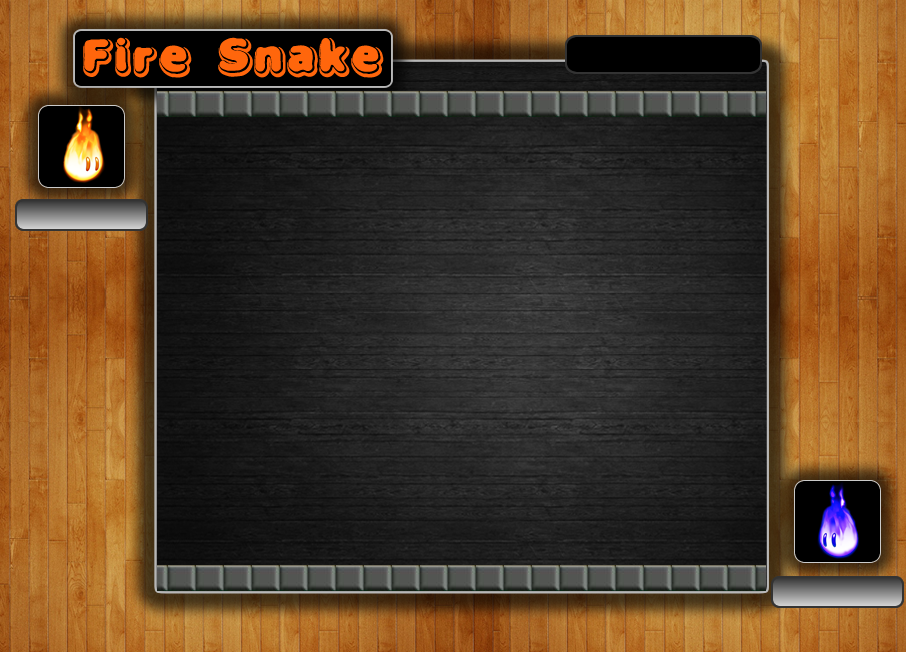
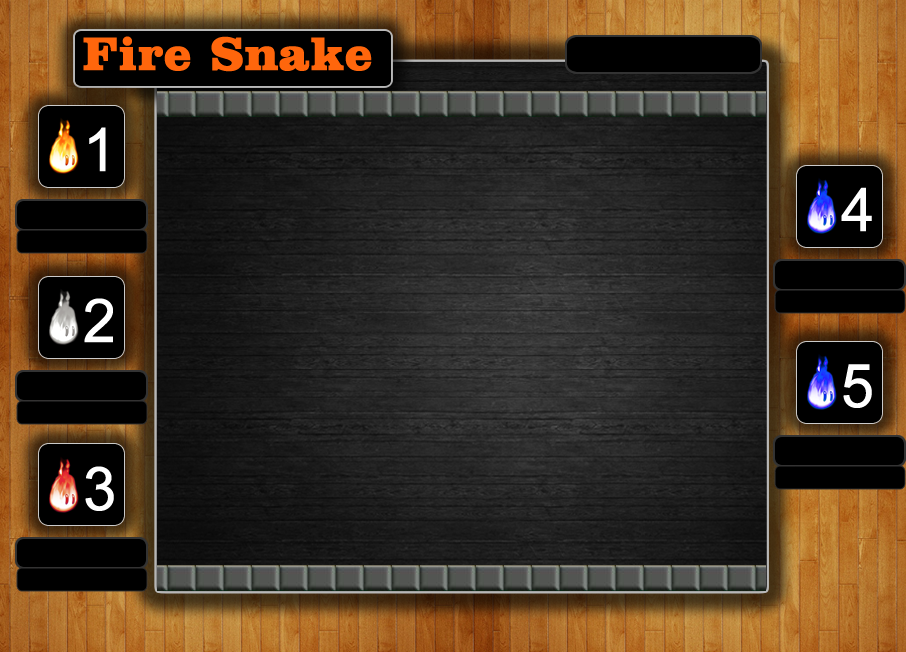
score engine

diff --git a/game/classes/app/Score.js b/game/classes/app/Score.js
@@ -22,19 +22,36 @@ Snake.Score = function(config){
         
         $.ajax({
             type: "POST",
-            url: "game/scripts/saveScore.php",
-            data: { name: player_name, score: score }
+            url: "game/scripts/scoreEngine.php",
+            data: { method : "save", name: player_name, score: score }
         }).done(function( msg ) {
             $( "#hscore" ).dialog( "close" );
             me.resetScore();
+            me.main.moveSnake.initSnake();
+            me.setHighScores();
         }); 
         
         $( "#hscore" ).dialog( "close" );
     }
     
    this.updateScore = function(){
-         console.info(me.xScore);
         score = (score) + (50 * me.xScore);
+        $(".scorePopup").text("+" + (me.xScore*50)); 
+        
+        //score animation
+        $(".boxScorePopup").show();
+        $(".boxScorePopup").animate({
+           opacity: 0.4,
+           top : "250px"
+         }, 300,
+           function() {
+                $(".boxScorePopup").hide().css({
+                    opacity : 0.8,
+                    top : "300px"
+                });
+             } 
+         );        
+        
         var showScore = String(score);
         var cntScore = showScore.length;
         var loopZeros = 7 - cntScore;
@@ -56,7 +73,68 @@ Snake.Score = function(config){
         me.ctx.font = 'italic bold 30px Lemon';
         me.ctx.clearRect(550, 40, 300,40);
         me.ctx.fillText("0000000", 590, 65); 
-    }    
+    }
+
+    this.getScore = function(){
+        return score;
+    }
+    
+    this.setHighScores = function(){
+        $.ajax({
+            type: "POST",
+            url: "game/scripts/scoreEngine.php",
+            data: { method : "get" }
+        }).done(function( scores ) {
+            
+            var sc = scores.split("|");
+            
+            me.ctx.fillStyle = '#FFF';
+            for(var v=0; v<sc.length; v++){
+                var data = sc[v].split("-");
+                me.ctx.font = 'italic bold 25px arial'; 
+                
+                switch(v){
+                    case 0 : me.ctx.clearRect(0, 185, 180,40);
+                             me.ctx.fillText("0" + data[1], 40, 225);
+                             me.ctx.font = 'italic bold 16px arial'; 
+                             me.ctx.clearRect(0, 225, 180,40);
+                             me.ctx.fillText(data[0], 40, 249);
+                        break;
+
+                    case 1 : me.ctx.clearRect(0, 370, 180,40);
+                             me.ctx.fillText("0" + data[1], 40, 395);
+                             me.ctx.font = 'italic bold 16px arial'; 
+                             me.ctx.clearRect(0, 395, 180,40);
+                             me.ctx.fillText(data[0], 40, 419);
+                        break;
+
+                    case 2 : me.ctx.clearRect(0, 540, 180,40);
+                             me.ctx.fillText("0" + data[1], 40, 562);
+                             me.ctx.font = 'italic bold 16px arial'; 
+                             me.ctx.clearRect(0, 570, 180,40);
+                             me.ctx.fillText(data[0], 40, 587);
+                        break;
+
+                    case 3 : me.ctx.clearRect(760, 260, 180,40);
+                             me.ctx.fillText("0" + data[1], 794, 285);
+                             me.ctx.font = 'italic bold 16px arial'; 
+                             me.ctx.clearRect(760, 290, 180,40);
+                             me.ctx.fillText(data[0], 794, 307);
+                        break;
+                        
+                    case 4 : me.ctx.clearRect(760, 440, 180,40);
+                             me.ctx.fillText("0" + data[1], 794, 460);
+                             me.ctx.font = 'italic bold 16px arial'; 
+                             me.ctx.clearRect(760, 470, 180,40);
+                             me.ctx.fillText(data[0], 794, 485);
+                        break;
+                }
+            }
+            
+                         
+            
+        });        
+    }
     
     this.init();
 }

diff --git a/game/classes/app/MainApplication.js b/game/classes/app/MainApplication.js
@@ -3,6 +3,7 @@ if(typeof(Snake)=="undefined"){var Snake = {} };
 Snake.MainApplication = function(config){
     
     var me = this;
+    var splash = true;
     this.ctx = null;
     this.paused = true;
     this.moveSnake = null;
@@ -39,7 +40,19 @@ Snake.MainApplication = function(config){
         
         $("#save_button").on("click",function(){
             me.Score.saveScore();
-        })
+        });
+        
+        $("#player_name").on("keyup",function(e){
+            if(e.keyCode==13){
+                me.Score.saveScore();
+            }
+        });        
+        
+        var splash = new Image();
+        splash.src = "game/media/images/backgrounds/initbg.png";
+        splash.onload = function(){
+            me.ctx.drawImage(splash, 195, 170); //path and pos x, y
+        }        
         
         me.gameScore();
         
@@ -47,10 +60,13 @@ Snake.MainApplication = function(config){
     
     this.restartApp = function(){
         console.info("restart app");
-        
         setTimeout(function(){
-            me.moveSnake.initSnake();
-            me.Score.openScorePopup();
+            if(parseInt(me.Score.getScore()) > 12000){
+                me.Score.openScorePopup();
+            }else{
+                me.Score.resetScore();
+                me.moveSnake.initSnake();                
+            }
         },500);
         
     }
@@ -74,7 +90,9 @@ Snake.MainApplication = function(config){
                  break;   
                  
              case 13 :
-                 me.gamePause();
+                 if(!$( "#hscore" ).dialog( "isOpen" )){
+                    me.gamePause();
+                 }
                  break;                  
          }
      }  
@@ -83,8 +101,15 @@ Snake.MainApplication = function(config){
         me.ctx.fillStyle = '#FFF';
         me.ctx.font = 'italic bold 30px Lemon';
         me.ctx.fillText('0000000', 610, 65); 
+        
+        me.Score.setHighScores();
+        
+        //refresh scores
+        setInterval(function(){
+            me.Score.setHighScores();  
+        },5000);         
+        
      }
-     
      
      this.gamePause = function(){
          
@@ -102,6 +127,12 @@ Snake.MainApplication = function(config){
             
             me.ctx.save();
         }else{
+            
+            if(splash){
+                splash = false;
+                me.ctx.clearRect(195,170,535,350);
+            }
+            
             me.ctx.clearRect(157,300,608,40);
             me.ctx.restore();
         }

diff --git a/snake.php b/snake.php
@@ -31,6 +31,25 @@
                color: #440000;
                font-size: 30px;
             }
+            
+            .scorePopup{
+                position: relative;
+                font-size: 40px;
+                color : #fff;
+                margin-left : 8px;
+            }
+            
+            .boxScorePopup{
+                padding: 5px;
+                background-color: #000;
+                position: relative;
+                top: 300px;
+                left: 600px;
+                width: 120px;
+                border-radius: 13px;  
+                opacity:0.8;
+                display : none;
+            }
         </style>
 
   
@@ -56,11 +75,17 @@
             
             <div id="dialog-form" class="ui-dialog-content ui-widget-content" style="width: auto; min-height: 0px; max-height: none; height: 207px;">
                 <label for="name">Name</label>
-                <input type="text" name="player_name" id="player_name" class="text ui-widget-content ui-corner-all">
+                <input type="text" name="player_name" id="player_name" class="text ui-widget-content ui-corner-all" maxlength="8">
             </div>
             <button id="save_button" type="button" class="ui-button ui-widget ui-state-default ui-corner-all ui-button-text-only" role="button" aria-disabled="false" style="margin-left:65px">
                 <span class="ui-button-text" >Save score</span>
             </button>
         </div>
+        
+        <div class="boxScorePopup">
+            <span class="scorePopup">
+            </span>            
+        </div>
+        
     </body>
 </html>

diff --git a/game/scripts/scoreEngine.php b/game/scripts/scoreEngine.php
@@ -1,0 +1,40 @@
+<?php
+$data = $_POST;
+$file = 'bestScores.txt';
+$oldScores = json_decode(file_get_contents($file), true);
+
+if($data["method"] == "save"){
+    $playerName = $data["name"];
+    $currentScore = "score_" . intval($data["score"]);
+
+    $codeScores = array(
+        $currentScore => array("playerName" => $playerName, "score" => intval($data["score"]))
+    );
+
+    $joinScores = is_array($oldScores) ? json_encode(array_merge($oldScores, $codeScores)) : json_encode($codeScores);
+    file_put_contents($file, $joinScores);    
+}
+
+if($data["method"] == "get"){
+    
+function sortArray($a, $b) {
+    if ($a["score"] == $b["score"]) {
+        return 0;
+    }
+    return ($a["score"] < $b["score"]) ? 1 : -1;
+}
+
+uasort($oldScores, 'sortArray');
+    $bk = 0;
+    $scores = "";
+    foreach($oldScores as $sc){
+        if($bk < 5){
+            $scores .= $sc["playerName"] . "-" . $sc["score"] . "|";             
+        }else{
+            break;
+        }
+        $bk++;
+    }
+    echo $scores; 
+}
+?>
